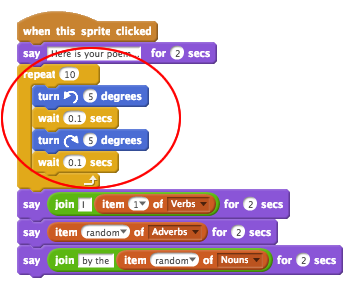
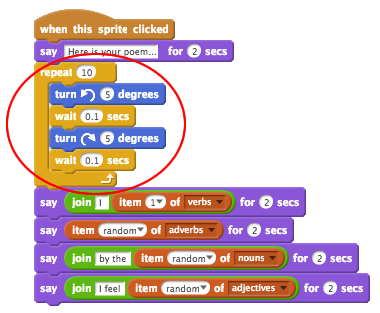
Poetry Generator: Various typos and images added

diff --git a/en-GB/poetry-generator/index.md b/en-GB/poetry-generator/index.md
@@ -18,7 +18,7 @@ You are going to learn how to program your own poetry generator!
 
 # Step 1: Ada Lovelace { .activity }
 
-In 1842, Ada Lovelace wrote about using a machine called the 'Analytical Engine' to make calculations, and is seen as the world's first computer programmer!
+In 1842, Ada Lovelace wrote about using a machine called the 'Analytical Engine' to make calculations, and is seen as the world's first computer programmer! Ada was the first to see that computers could be more than just big calculators.
 
 ## Activity Checklist { .check }
 
@@ -30,13 +30,13 @@ In 1842, Ada Lovelace wrote about using a machine called the 'Analytical Engine'
 
 Any code added underneath this block will run when Ada is clicked!
 
-+ Click the `Looks` {.blocklooks} tab, and drag the `say` {.blocklooks} Hello! `for 2 secs` {.blocklooks} block underneath the code you've already added.
++ Click the `Looks` {.blocklooks} tab, and drag the `say` {.blocklooks} `Hello!` `for 2 secs` {.blocklooks} block underneath the code you've already added.
 
 ![screenshot](images/poetry-say.png)
 
 + Click on Ada, and you should see her talk to you.
 
-![screenshot](poetry-say-test.png)
+![screenshot](images/poetry-say-test.png)
 
 ## Challenge: Code Ada to introduce herself {.challenge}
 Can you change your code, so that Ada says 'Hi, I'm Ada!' when you click on her?
@@ -123,7 +123,7 @@ Let's program Ada's computer (called the 'Analytical Engine') to generate poetry
 
 ## Activity Checklist { .check }
 
-+ Add this code to your 'Computer' sprite, so that it speaks then clicked:
++ Add this code to your 'Computer' sprite, so that it speaks when clicked:
 
 ```scratch
 when this sprite clicked
@@ -156,27 +156,58 @@ say (join [I ] (item (random v) of [verbs v])) for (2) secs
 
 # Step 4: More poetry { .activity }
 
-Your poem is quite short! Let's add a second line.
+Your poem is quite short - let's add to it!
 
 ## Activity Checklist { .check }
 
-+ Let's use adverbs in the next line of your poem. An adverb is a word that describes a verb. Create another list called __adverbs__, and add these 3 words:
++ Let's use adverbs in the next line of your poem. An __adverb__ is a word that describes a verb. Create another list called adverbs, and add these 3 words:
 
 ![screenshot](images/poetry-adverbs.png)
 
-+ Add this line to your computer's code, to say a random adverb at the end of your poem:
++ Add this line to your computer's code, to say a random adverb on the next line of your poem:
 
 ```scratch
 say (item (random v) of [adverbs v]) for (2) secs
 ```
 
-+ You can click the boxes next to your 2 lists to hide them.
-
-![screenshot](images/poetry-lists-tick.png)
-
 + Test your code a few times. You should see a random poem each time.
 
 ![screenshot](images/poetry-adverb-test.png)
+
++ Add a list of nouns to your project. A __noun__ is a place or a thing.
+
+![screenshot](images/poetry-nouns.png)
+
++ Add code to use the nouns in your poem.
+
+```scratch
+say (join [by the ] (item (random v) of [nouns v])) for (2) secs
+```
+
++ Add a list of adjectives to your project. An __adjective__ is a describing word.
+
+![screenshot](images/poetry-adjectives.png)
+
++ Add code to use the adjectives in your poem:
+
+```scratch
+say (join [I feel ] (item (random v) of [adjectives v])) for (2) secs
+```
+
++ You can click the boxes next to your lists to hide them.
+
+![screenshot](images/poetry-lists-tick.png)
+
++ Test out your new poem. Here's the code you should have:
+
+```scratch
+when this sprite clicked
+say [Here is your poem...] for (2) secs
+say (join [I ] (item (random v) of [verbs v])) for (2) secs
+say (item (random v) of [adverbs v]) for (2) secs
+say (join [by the ] (item (random v) of [nouns v])) for (2) secs
+say (join [I feel ] (item (random v) of [adjectives v])) for (2) secs
+```
 
 ## Save your project { .save }
 
@@ -201,7 +232,11 @@ Here's how your code should look:
 
 ![screenshot](images/poetry-animate.png)
 
-You'll find the `repeat` {.blockcontrol} and `wait` {.blockcontrol} blocks are in the `control` {.blockcontrol} section.
+You'll find the `repeat` {.blockcontrol} and `wait` {.blockcontrol} blocks are in the `Control` {.blockcontrol} section.
+
++ Test your project. You should see the computer shake before producing a poem!
+
+![screenshot](images/poetry-animate-test.png)
 
 + Click the 'Sounds' tab, and click 'Choose sound from library'.
 
@@ -211,7 +246,7 @@ You'll find the `repeat` {.blockcontrol} and `wait` {.blockcontrol} blocks are i
 
 ![screenshot](images/poetry-beeps.png)
 
-+ Add a `play sound` {.blocksound} block, to play your sound during the animation.
++ Add a `play sound` {.blocksound} block, to play your sound just before your animation starts.
 
 ![screenshot](images/poetry-play.png)
 
@@ -223,15 +258,9 @@ Can you use your `name` {.blockdata} variable to personalise your poem?
 ![screenshot](images/poetry-name-comp.png)
 
 ## Challenge: More words {.challenge}
-Can you add more verbs and adverbs to your lists, so that you can generate more poems?
-
-Remember:
-+ Verbs are action words (like 'cry' and 'dance')
-+ Adverbs are words that describs verbs (like 'silently' or 'loudly').
+Can you add more words to your lists, so that you can generate more poems?
 
 ## Challenge: More poetry {.challenge}
-Can you add more lists to your project, and use them to create more poetry?
-
-You can use __nouns__ (names of places or things, like 'sea' or 'moon'), or __adjectives__ (words that describe a noun, like 'beautiful' or 'small').
+Can you use your own lists to generate you own poetry?
 
 ## Save your project { .save }

diff --git a/en-GB/poetry-generator/PoetryGenerator - notes.md b/en-GB/poetry-generator/PoetryGenerator - notes.md
@@ -32,5 +32,5 @@ Make sure that each child has access to a copy of these resources.
 #Challenges
 + "Code Ada to introduce herself" - Changing the text in a `say` {.blocklooks} code block;
 + "Personalise your poem" - Using a variable within a `say` {.blocklooks} block;
-+ "More words" - Adding more verbs and adverbs to the lists;
-+ "More poetry" - Use of additional lists to create a longer / different poem.
++ "More words" - Adding more verbs, adverbs nouns and adjectives to the lists;
++ "More poetry" - Use of different lists to create a different poem.
